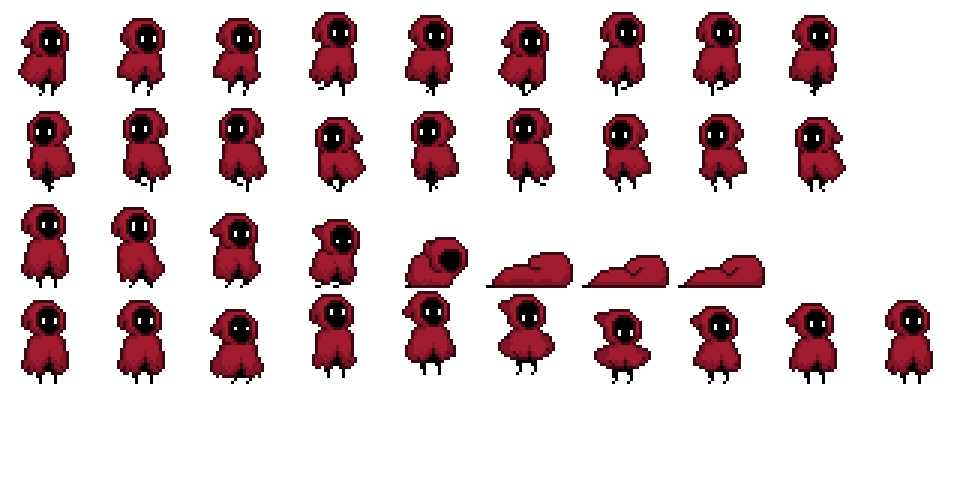
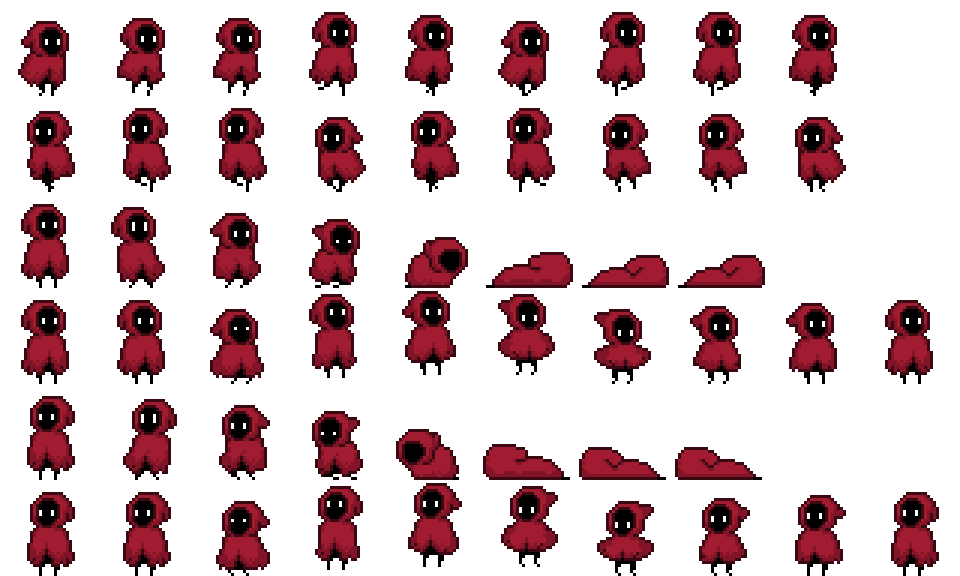
movement_complete

diff --git a/Character/Character.cpp b/Character/Character.cpp
@@ -12,11 +12,16 @@ namespace Engine {
         this->CollisionRadius = collisionRadius;
         std::cout << "Created Character at (" << x << ", " << y << ") with speed " << speed << std::endl;
         SetSpriteSource(0, 0, 96, 96);
-        std::cout << ">>>>>>>>Bitmap width: " << GetBitmapWidth() << ", height: " << GetBitmapHeight() << std::endl;
+        isDying = 0;
+        isDead = 0;
+        // std::cout << ">>>>>>>>Bitmap width: " << GetBitmapWidth() << ", height: " << GetBitmapHeight() << std::endl;
     }
 
     void Character::OnKeyDown(int keyCode) {
-        // Handle WASD and arrow keys for movement
+        if (keyCode == ALLEGRO_KEY_K){ // 自殺測試用
+            isDying = 1;
+            cur_frame = frame_timer = 0;
+        }
         switch (keyCode) {
             case ALLEGRO_KEY_W:
             case ALLEGRO_KEY_UP:
@@ -39,15 +44,13 @@ namespace Engine {
                 isMoving = true;
                 break;
         }
-        // Normalize direction to prevent faster diagonal movement
         if (isMoving && direction.Magnitude() > 0) {
             direction = direction.Normalize();
         }
-        std::cout << "Key down: " << keyCode << ", Direction: (" << direction.x << ", " << direction.y << ")";
+        // std::cout << "Key down: " << keyCode << ", Direction: (" << direction.x << ", " << direction.y << ")" << std::endl;
     }
 
     void Character::OnKeyUp(int keyCode) {
-        // Reset direction components when keys are released
         switch (keyCode) {
             case ALLEGRO_KEY_W:
             case ALLEGRO_KEY_UP:
@@ -62,36 +65,79 @@ namespace Engine {
                 direction.x = 0;
                 break;
         }
-        // Check if character is still moving
+
         isMoving = (direction.x != 0 || direction.y != 0);
         if (!isMoving) {
             Velocity = Point(0, 0);
         }
-        std::cout << "Key up: " << keyCode << ", Direction: (" << direction.x << ", " << direction.y << ")";
+        // std::cout << "Key up: " << keyCode << ", Direction: (" << direction.x << ", " << direction.y << ")" << std::endl;
     }
 
     void Character::Update(float deltaTime) {
-        // Update velocity based on direction and speed
-        if (isMoving) {
-            Velocity = direction * speed;
-            
-            SetSpriteSource(96, 0, 96, 96);  
-            // std::cout << "MOV " << SourceX
-            //                     << " " <<SourceY
-            //                     << " " <<SourceW
-            //                     << " " <<SourceH << std::endl;
+        if (!isDying){
+            if (isMoving) {
+                Velocity = direction * speed;
+
+                frame_timer += deltaTime;
+
+                if (frame_timer >= frame_duration){
+                    frame_timer -= frame_duration;
+                    cur_frame = (cur_frame + 1) % max_frames;
+
+                    if (direction.x > 0){ // 右
+                        SetSpriteSource(cur_frame * 96, 0, 96, 96);
+                        last_idle_dir = direction;
+                    }
+                    else if (direction.x < 0){ // 左
+                        SetSpriteSource((7 - cur_frame) * 96, 96, 96, 96);  
+                        last_idle_dir = direction;
+                    }
+                    else if (direction.x == 0){ // 看最後方向 (default 右)
+                        if (last_idle_dir.x >= 0) SetSpriteSource(cur_frame * 96, 0, 96, 96); // right
+                        else SetSpriteSource((7 - cur_frame) * 96, 96, 96, 96);
+                    }
+                }
+            }
+            else {
+                /// IDLE 動畫
+                frame_timer += deltaTime;
+
+                if (frame_timer >= frame_duration){
+                    frame_timer -= frame_duration;
+                    cur_frame = (cur_frame + 1) % (max_frames+1);
+
+                    if (last_idle_dir.x >= 0)
+                        SetSpriteSource(cur_frame * 96, 96*3, 96, 96);
+                    else
+                        SetSpriteSource(cur_frame * 96, 96*5, 96, 96);
+                }
+            }
         }
-        else{
-            SetSpriteSource(0, 0, 96, 96);
-            // std::cout << "static " << SourceX
-            //                     << " " <<SourceY
-            //                     << " " <<SourceW
-            //                     << " " <<SourceH << std::endl;
+        else if(!isDead) { // 快死了
+            frame_timer += deltaTime;
+
+            if (frame_timer >= (frame_duration+0.13)){
+                frame_timer -= (frame_duration+0.13);
+                cur_frame = (cur_frame + 1);
+
+                if (cur_frame > max_frames-1){
+                    std::cout << "お前はもう死んでる" << std::endl;
+                    isDead = 1;
+                }
+
+                if (last_idle_dir.x >= 0)
+                    SetSpriteSource(cur_frame * 96, 96*2, 96, 96);
+                else
+                    SetSpriteSource(cur_frame * 96, 96*4, 96, 96);
+            }
         }
-        // Update position using Sprite's Update (Position += Velocity * deltaTime)
+        else{ // 真死了
+            std::cout << "YOU FUCKED UP" << std::endl;
+
+        }
+
         Sprite::Update(deltaTime);
 
-        // Optional: Clamp position to screen boundaries
         Point screenSize = GameEngine::GetInstance().GetScreenSize();
         Position.x = std::max(CollisionRadius, std::min(screenSize.x - CollisionRadius, Position.x));
         Position.y = std::max(CollisionRadius, std::min(screenSize.y - CollisionRadius, Position.y));

diff --git a/Character/Character.hpp b/Character/Character.hpp
@@ -13,7 +13,14 @@ namespace Engine {
         // Flag to track if the character is moving
         bool isMoving;
 
-        int tick = 0;
+        bool isDying;
+        bool isDead;
+
+        Engine::Point last_idle_dir;
+        float frame_timer = 0.0f;
+        int cur_frame = 0;
+        const int max_frames = 7;
+        const float frame_duration = 0.11f;
 
     public:
         // Constructor
@@ -27,6 +34,8 @@ namespace Engine {
         
         // Override Update to handle movement
         void Update(float deltaTime) override;
+
+        
     };
 }
 #endif //

diff --git a/Scene/PlayScene.hpp b/Scene/PlayScene.hpp
@@ -22,20 +22,10 @@ namespace Engine {
 class PlayScene final : public Engine::IScene {
 public: //// new 本來是 privte
     enum TileType {
-<<<<<<< HEAD
-        TILE_OCCUPIED,
-        TILE_DIRT,
-        TILE_FLOOR,
-        TILE_WALL,
-        TILE_ROCK,
-        TILE_BUSH,
-        TILE_WATER,
-=======
         TILE_WATER,
         TILE_GRASS,
         TILE_ROCK,
         TILE_OCCUPIED
->>>>>>> d8b05986b1cec430e9d997ac026b6522d8ff1ee2
     };
     ALLEGRO_SAMPLE_ID bgmId;
     std::shared_ptr<ALLEGRO_SAMPLE_INSTANCE> deathBGMInstance;
